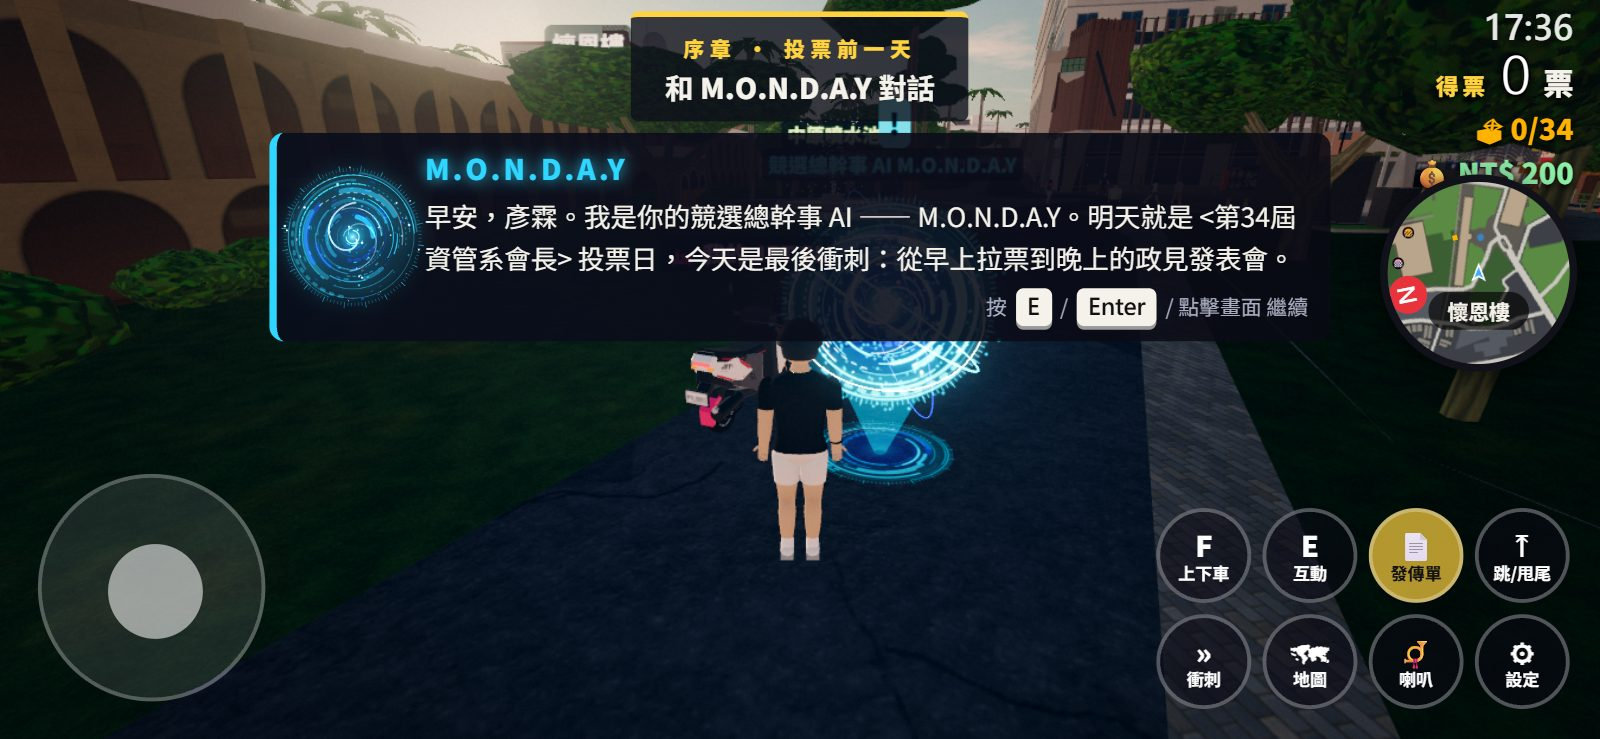
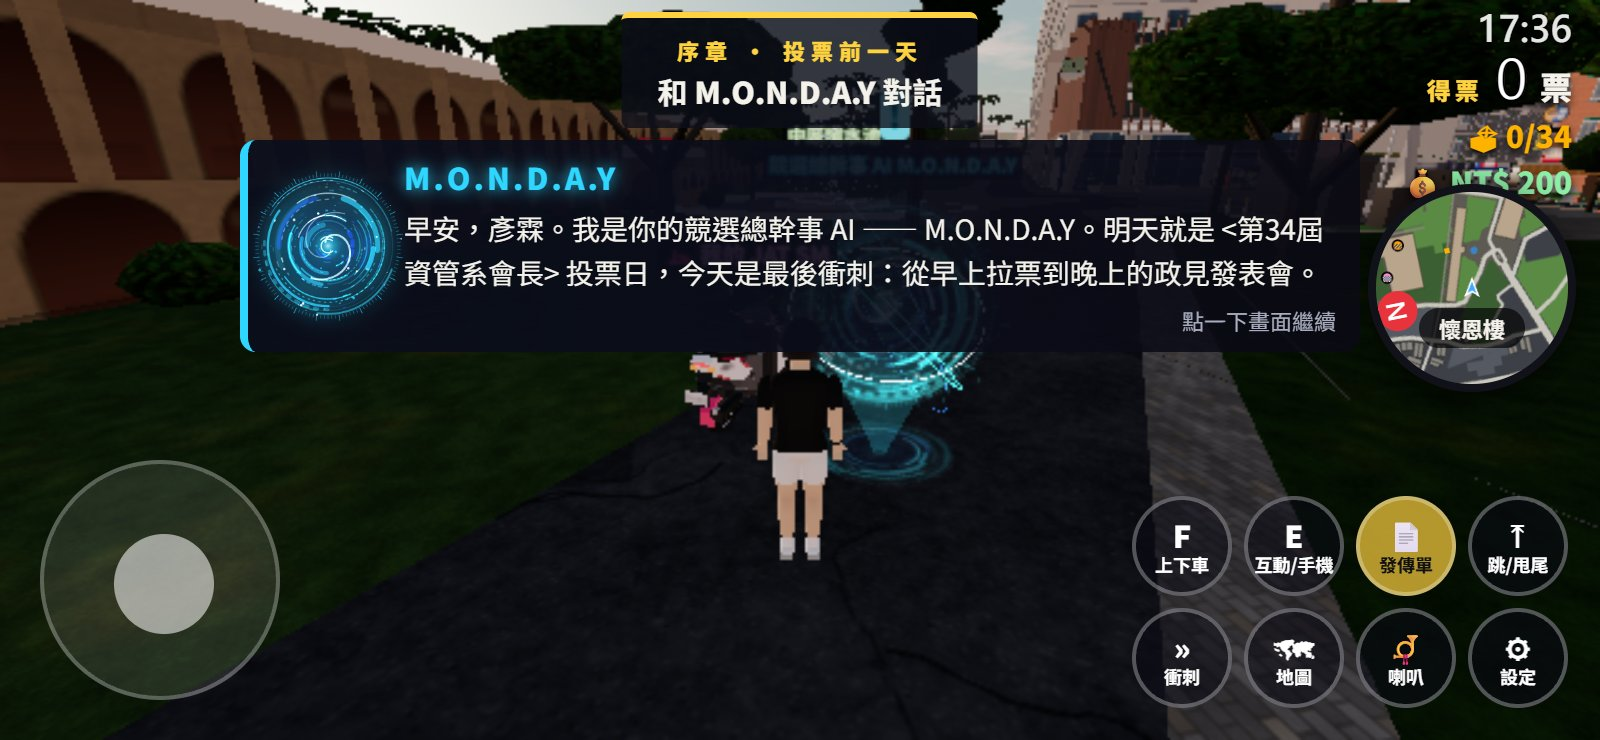
docs(wiki): 手機畫面的 E 鈕更新成「互動/手機」
- 操作說明的觸控按鍵圖（遊戲內與 Wiki 共用，src/core/Controls.js）E 鈕改成「互動/手機」
- Wiki 操作教學的手機截圖重拍（1600×740，E 鈕「互動/手機」、對話框「點一下畫面繼續」），說明文字同步

diff --git a/src/core/Controls.js b/src/core/Controls.js
@@ -190,7 +190,7 @@ const TOUCH = `<div class="touch-diagram">
     <div class="td-btns">
       ${[
         ['F', '上下車'],
-        ['E', '互動'],
+        ['E', '互動/手機'],
         ['📄', '發傳單', 1],
         ['⤒', '跳/甩尾'],
         ['»', '衝刺'],
